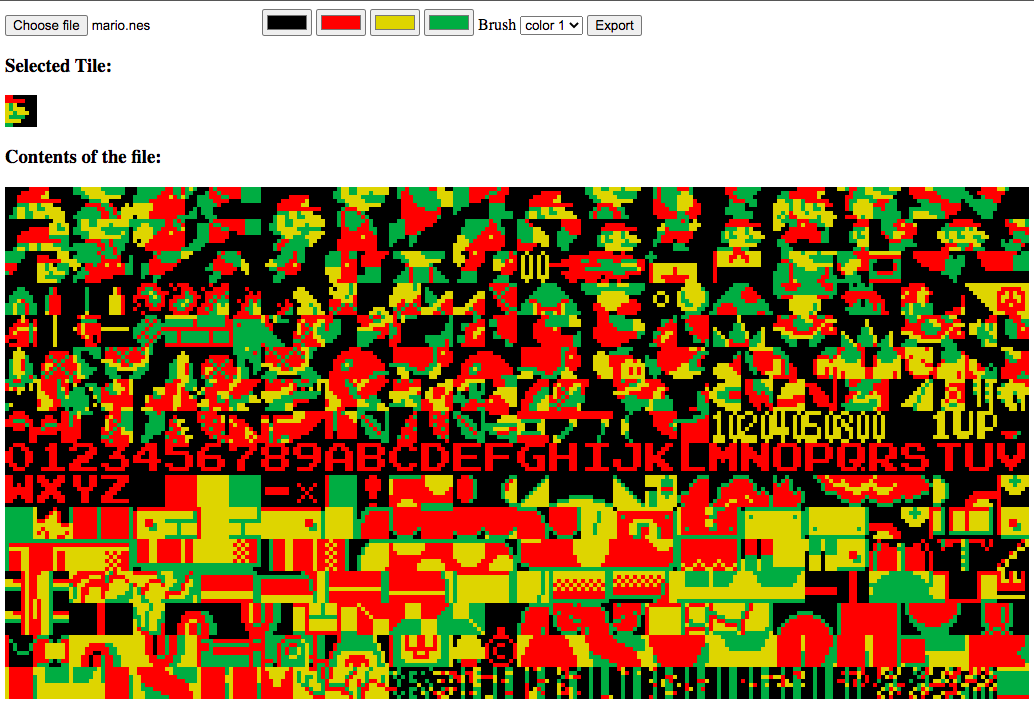
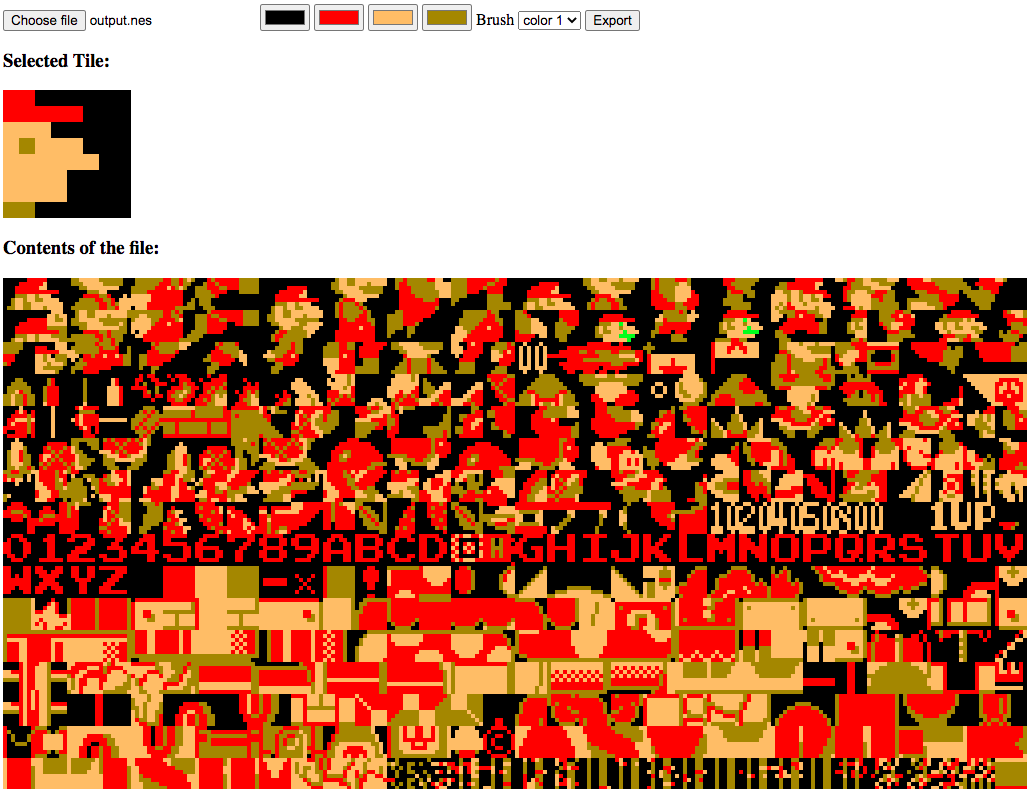
seprate sprite scale

diff --git a/paint.js b/paint.js
@@ -1,5 +1,6 @@
 var canvas = null;
 var scale = 4
+var spriteScale = 16
 var rom = []
 let CHR = []
 let colors = [
@@ -63,15 +64,15 @@ function ChangeRomDate(x, y, brush) {
         rom[currentByte + 0] = rom[currentByte + 0] | (0x00 | (1 << (7 - x)))
         rom[currentByte + 8] = rom[currentByte + 8] | (0x00 | (1 << (7 - x)))
     }
-    createCanvas(rom)
+    // createCanvas(rom)
 }
 function clickOnSprite(e) {
-    let x = Math.floor((e.clientX - e.target.offsetLeft) / scale)
-    let y = Math.floor((e.clientY - e.target.offsetTop) / scale)
+    let x = Math.floor((e.clientX - e.target.offsetLeft) / spriteScale)
+    let y = Math.floor((e.clientY - e.target.offsetTop) / spriteScale)
     let brushValue = parseInt(document.getElementById("brush").value) - 1
     let selectedColor = colors[brushValue]
     ctx2.fillStyle = selectedColor
-    ctx2.fillRect(x * scale, y * scale, 1 * scale, 1 * scale)
+    ctx2.fillRect(x * spriteScale, y * spriteScale, 1 * spriteScale, 1 * spriteScale)
 
     ctx.fillStyle = `rgba(0,255,0,1)`
     const xx = scale * 8 * (((selectedTile) / (8)) % 32) + x * scale
@@ -88,22 +89,22 @@ function clickOnSprite(e) {
 }
 function drawSprite(ct, x, y) {
     ct.fillStyle = 'rgba(0,0,0,1)';
-    ct.fillRect(0, 0, 8 * scale, 8 * scale);
+    ct.fillRect(0, 0, 8 * spriteScale, 8 * spriteScale);
     let ii = Math.floor(x / (8 * scale))
     let jj = Math.floor(y / (8 * scale))
     selectedTile = jj * 32 * 8 + 8 * ii
     for (let py = 0; py < 8; py++) {
         for (let px = 0; px < 8; px++) {//color pixel at x y
             ct.fillStyle = colors[CHR[selectedTile + py][px]];
-            ct.fillRect(px * scale, py * scale, 1 * scale, 1 * scale);
+            ct.fillRect(px * spriteScale, py * spriteScale, 1 * spriteScale, 1 * spriteScale);
         }
     }
 }
 function clickOnMainCanvas(e) {
     let sprite = document.getElementById('sprite');
     sprite.addEventListener("click", clickOnSprite, false)
-    sprite.width = 8 * scale;
-    sprite.height = 8 * scale;
+    sprite.width = 8 * spriteScale;
+    sprite.height = 8 * spriteScale;
     ctx2 = sprite.getContext("2d");
     var tile = document.getElementsByName("selected-tile")[0];
     tile.removeChild(tile.lastChild);
